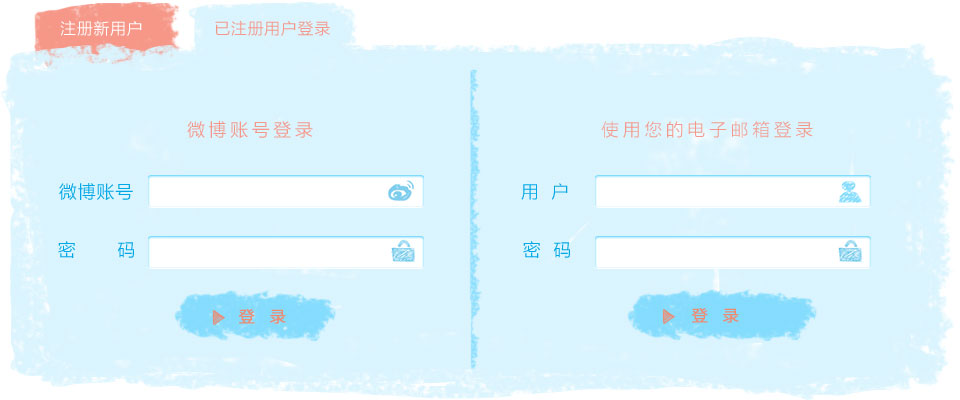
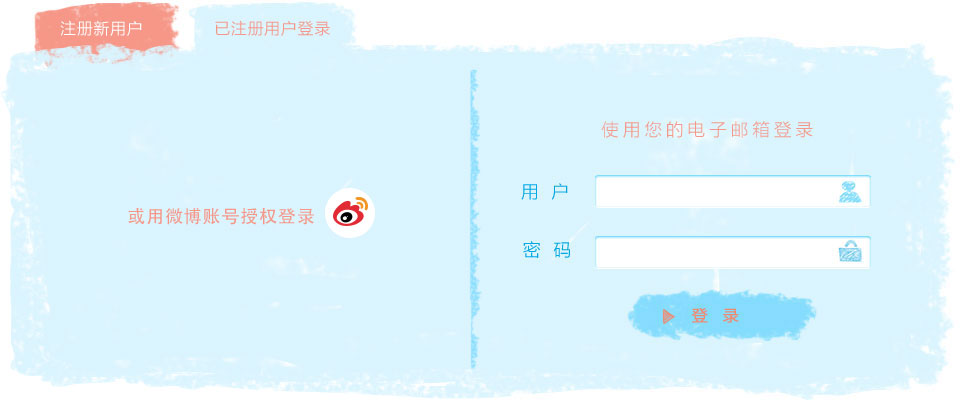
weibo login

diff --git a/avene_1000_p2/login.html b/avene_1000_p2/login.html
@@ -40,18 +40,13 @@
                     <div class="login_fi"><input class="login_btn" type="submit" /></div>
                 </form>
             </div>
-            <p class="login_weibo"></p>
+            <a href="#" class="login_weibo"></a>
         </div>
         <!--  -->
         <div class="login_box2" style="display:none;">
             <p class="login_ed2"></p>
-            <div class="login_form2">
-                <form>
-                    <div class="login_fi"><input class="login_ipt" type="text" /></div>
-                    <div class="login_fi"><input class="login_ipt" type="password" /></div>
-                    <div class="login_fi login_fibtn"><input class="login_btn" type="submit" /></div>
-                </form>
-            </div>
+            
+            <a href="#" class="login_weibo2"></a>
             <div class="login_form3">
                 <form>
                     <div class="login_fi"><input class="login_ipt" type="text" /></div>

diff --git a/avene_1000_p2/css/style.css b/avene_1000_p2/css/style.css
@@ -314,6 +314,7 @@ background-size:100% 100%;-webkit-background-size:100% 100%;-moz-background-size
 .login_ed2{background: url('../images/t.gif') repeat;width: 180px;height: 55px;position: absolute;top: 0px;left: 10px;cursor: pointer}
 .login_form2{position: absolute;left:148px;top: 175px;}
 .login_form2 .login_fibtn{margin-left:18px;margin-top:-10px;}
+.login_weibo2{background: url('../images/t.gif') repeat;width: 250px;height: 65px;position: absolute;top: 180px;left: 126px;cursor: pointer;}
 .login_form3{position: absolute;left:595px;top: 175px;}
 .login_form3 .login_fibtn{margin-left:28px;margin-top:-10px;}
 .login_form3 .login_btn{width: 200px}

diff --git a/avene_1000_p2/js/index.js b/avene_1000_p2/js/index.js
@@ -65,7 +65,7 @@
                 $('.city_selcom').children('.profile_selhosp').eq( $(this).get(0).selectedIndex ).show()
             })
             //login
-            $('.login_ed,.login_weibo').live('click',function(){
+            $('.login_ed').live('click',function(){
                 $('.login_box2').show()
                 $('.login_box').hide()
             })
